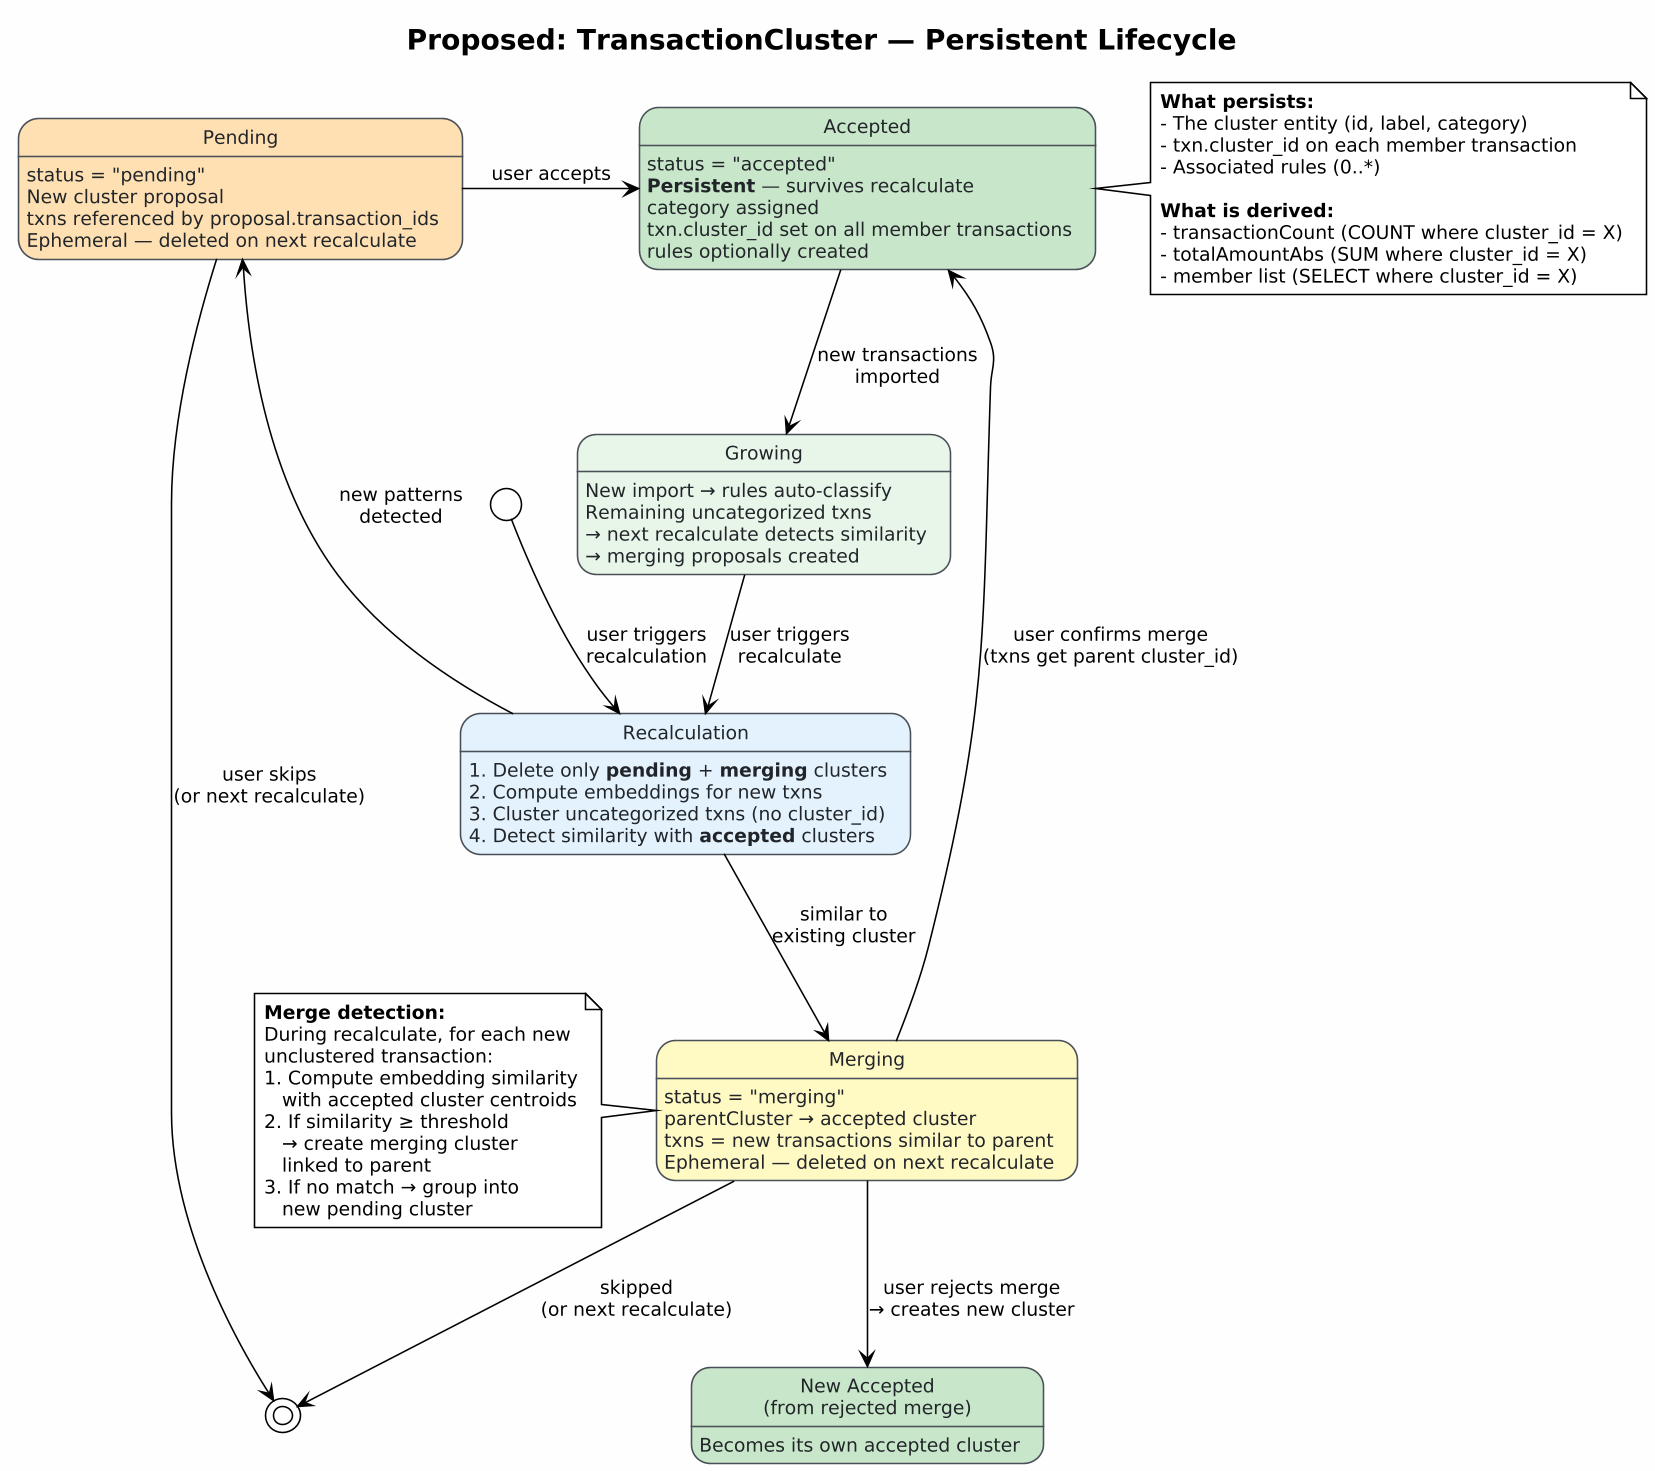
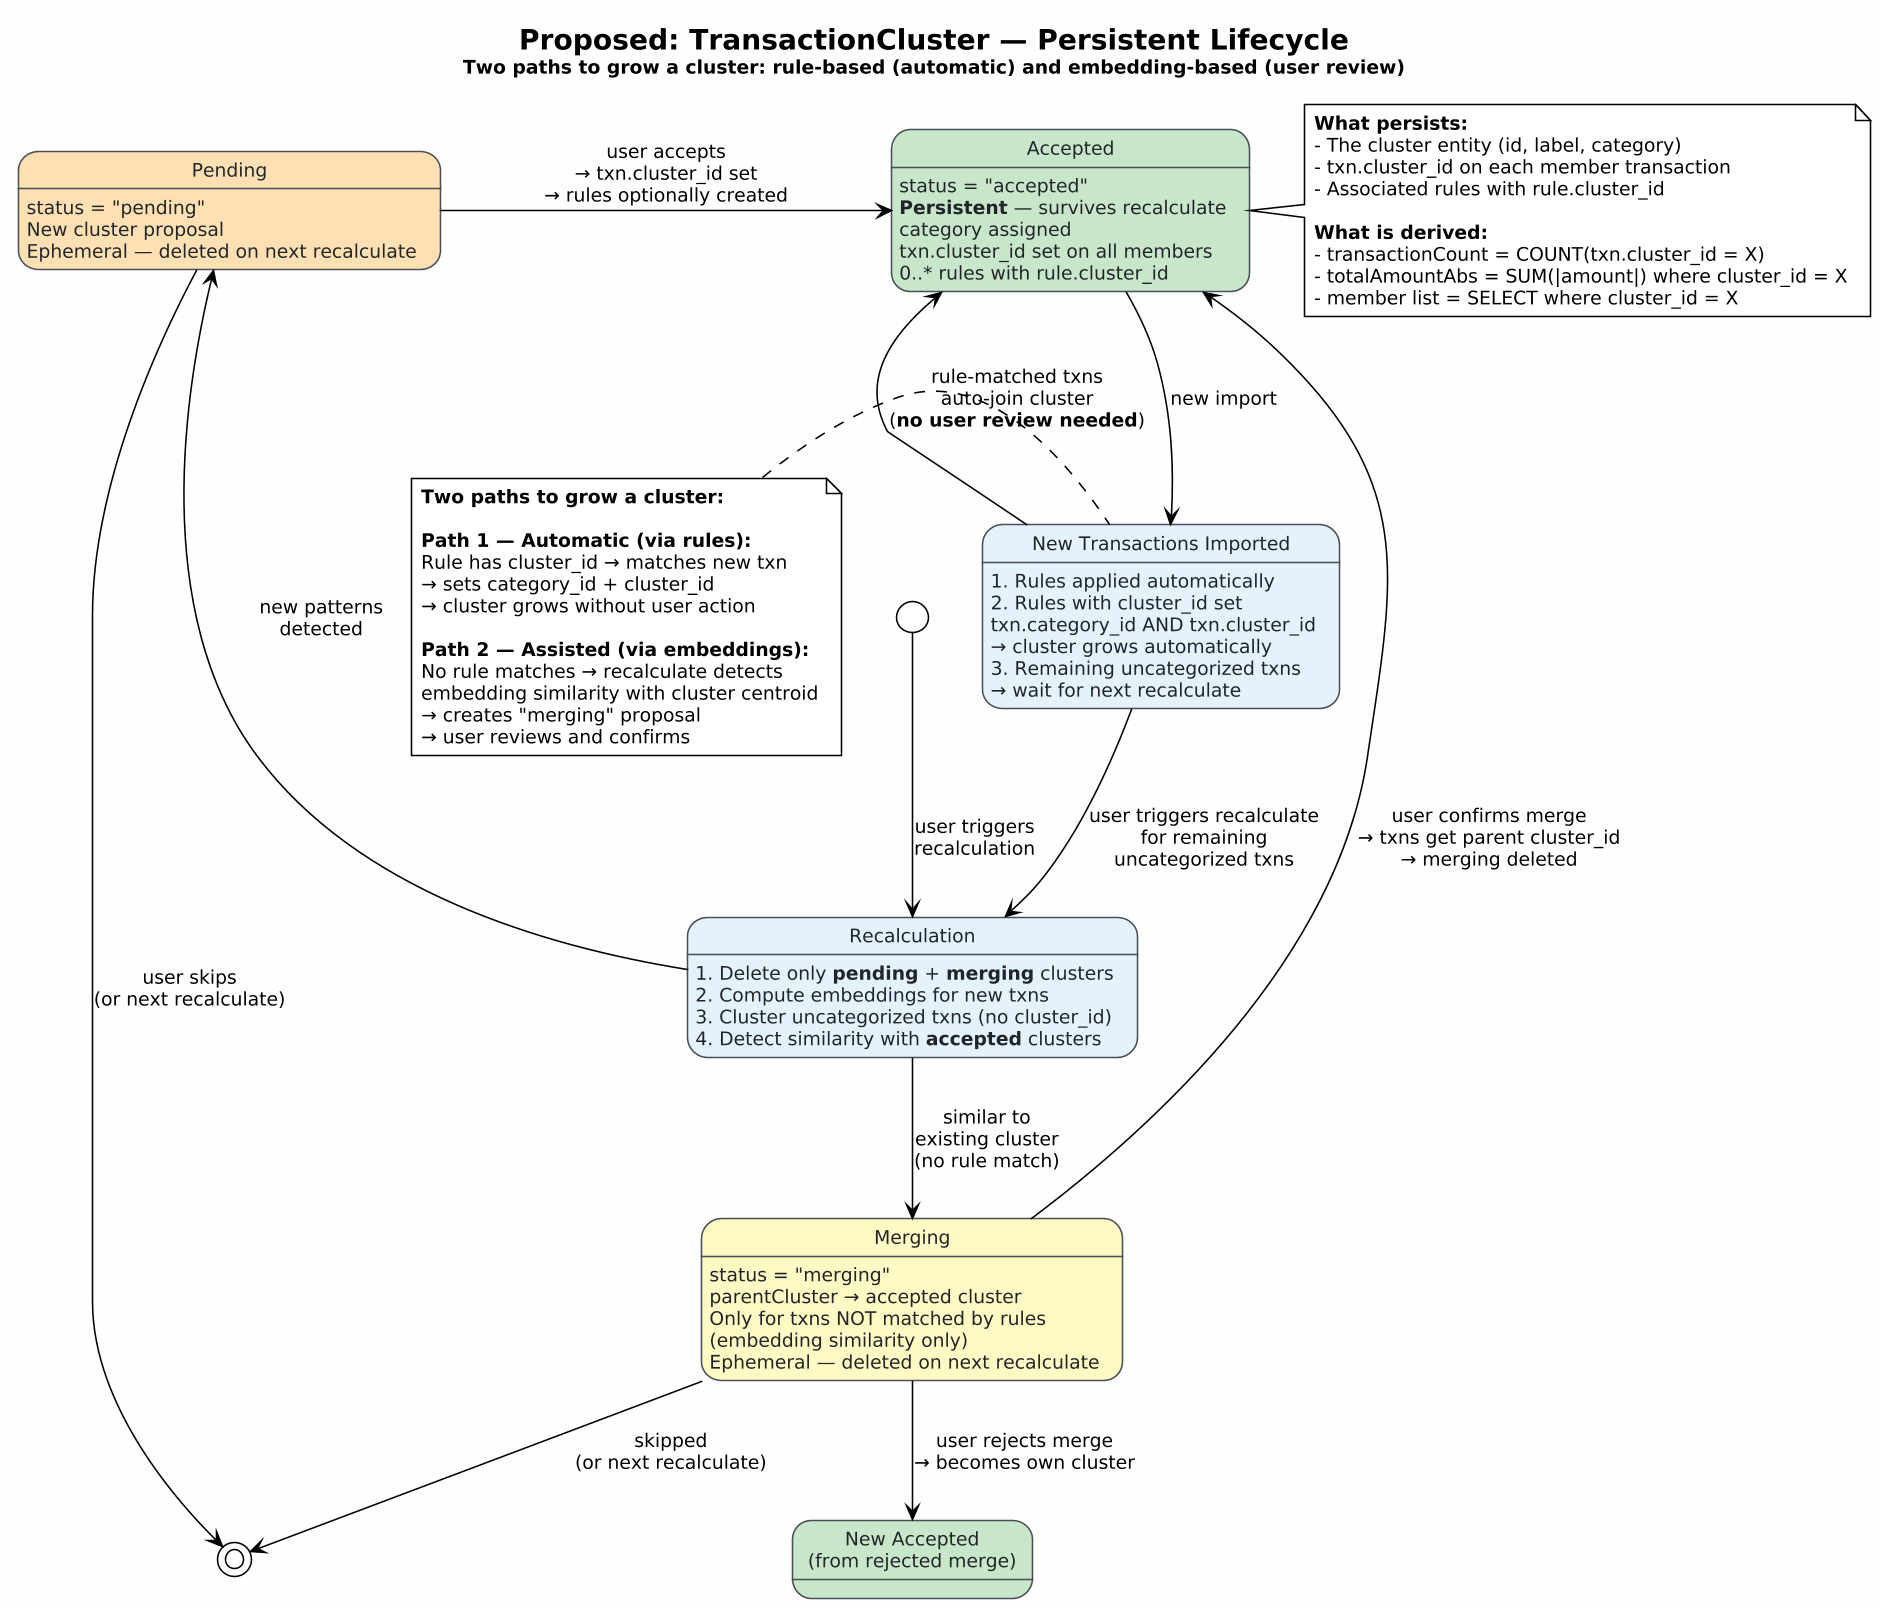
docs(pim): add Rule.clusterId back-reference for automatic cluster growth
Key design insight: ClassificationRule gains a cluster_id back-reference
to its source TransactionCluster. This enables two paths for cluster
growth after new transactions are imported:

Path 1 — Automatic (rules): When a rule with cluster_id matches a new
transaction, it sets BOTH txn.category_id AND txn.cluster_id. The
cluster grows without user action.

Path 2 — Assisted (embeddings): For uncategorized transactions not
matched by any rule, recalculate detects embedding similarity with
accepted cluster centroids and creates "merging" proposals for user
review.

Updated: proposed class diagram (Rule.clusterId field + bidirectional
relationship), proposed lifecycle diagram (two growth paths), and
section 1f documentation with revised comparison table.

https://claude.ai/code/session_015YvuEb5j7JQW21CT7GAgDW

diff --git a/docs/PIM_ONTOLOGY.md b/docs/PIM_ONTOLOGY.md
@@ -550,7 +550,7 @@ state Error {
 
 ### 1f. Proposed Refinement: Persistent TransactionCluster
 
-> **Design evolution**: TransactionCluster becomes a persistent, first-class domain entity once accepted. Transactions carry a `cluster_id` reference. Recalculate only removes `pending`/`merging` clusters. New transactions can extend existing accepted clusters via a `merging` workflow.
+> **Design evolution**: TransactionCluster becomes a persistent, first-class domain entity once accepted. Transactions carry a `cluster_id` reference. Rules carry a `cluster_id` back-reference enabling automatic cluster growth. Recalculate only removes `pending`/`merging` clusters. New transactions can extend existing accepted clusters via two paths: rule-based (automatic) and embedding-based (user review via `merging` status).
 
 #### Proposed Class Diagram
 
@@ -562,25 +562,35 @@ state Error {
 |--------|---------|----------|
 | **Cluster persistence** | Ephemeral — all deleted on recalculate | `accepted` clusters persist, only `pending`/`merging` deleted |
 | **Transaction.clusterId** | Does not exist | `cluster_id : TransactionCluster [0..1]` — a transaction belongs to at most one cluster |
-| **Cluster → Rules** | 1 cluster produces 0..1 rule | 1 cluster produces 0..* rules (multiple patterns possible) |
+| **Rule.clusterId** | Does not exist | `cluster_id : TransactionCluster [0..1]` — back-reference to source cluster. When rule matches, auto-assigns `txn.cluster_id` |
+| **Cluster → Rules** | 1 cluster produces 0..1 rule (no back-ref) | Bidirectional: cluster owns 0..* rules, rule references its cluster |
 | **Cluster status** | `pending \| accepted` | `pending \| accepted \| merging` |
 | **Cluster members** | Stored as JSONB `transaction_ids` on cluster | Derived from `SELECT * WHERE cluster_id = X` |
 | **Cluster metrics** | Stored (`transactionCount`, `totalAmountAbs`) | Derived (computed from member transactions) |
-| **Merge workflow** | Does not exist | `merging` clusters link new txns to a parent `accepted` cluster |
+| **Cluster growth (rules)** | Does not exist | Rules with `cluster_id` auto-assign `txn.cluster_id` — cluster grows without user action |
+| **Cluster growth (embeddings)** | Does not exist | `merging` clusters link new txns to a parent `accepted` cluster — requires user review |
 
 #### Proposed Cluster Lifecycle
 
 ![Proposed Cluster Lifecycle](images/MyFinance_ProposedClusterLifecycle.png)
 
-**The `merging` status resolves the "new transactions extending a cluster" problem:**
+**Two paths to grow an accepted cluster:**
 
-1. **Recalculate** detects new uncategorized transactions similar to accepted clusters (embedding cosine similarity with cluster centroid)
-2. Creates `merging` cluster: `status = "merging"`, `parentCluster = accepted cluster`, `transaction_ids = new similar txns`
-3. User reviews: **confirm** → new txns get `cluster_id` of parent → merging cluster deleted
-4. User reviews: **reject** → new txns form their own new accepted cluster
-5. User reviews: **skip** → merging cluster deleted on next recalculate
+**Path 1 — Automatic (via rules with `cluster_id`):**
+1. User accepts a cluster → rules optionally created with `rule.cluster_id` set
+2. New transactions imported → rules applied automatically
+3. When a rule with `cluster_id` matches: sets `txn.category_id` AND `txn.cluster_id`
+4. Cluster grows automatically — no user action needed
 
-**Rules remain independent of clusters:** a rule-based classification does NOT set `cluster_id`. Rules and clusters are complementary — rules are pattern-based automation, clusters are semantic grouping. A transaction can be classified by a rule (has `category_id`) without belonging to a cluster (no `cluster_id`), and vice versa.
+**Path 2 — Assisted (via embeddings, `merging` status):**
+1. New transactions not matched by any rule remain uncategorized
+2. **Recalculate** detects embedding similarity with accepted cluster centroids
+3. Creates `merging` cluster: `status = "merging"`, `parentCluster = accepted cluster`
+4. User reviews: **confirm** → new txns get `cluster_id` of parent → merging deleted
+5. User reviews: **reject** → new txns form their own new accepted cluster
+6. User reviews: **skip** → merging cluster deleted on next recalculate
+
+**Rules without `cluster_id` behave as today** — they only set `category_id`, no cluster assignment. This preserves backward compatibility: a transaction can be classified by a rule without belonging to any cluster.
 
 ---
 
